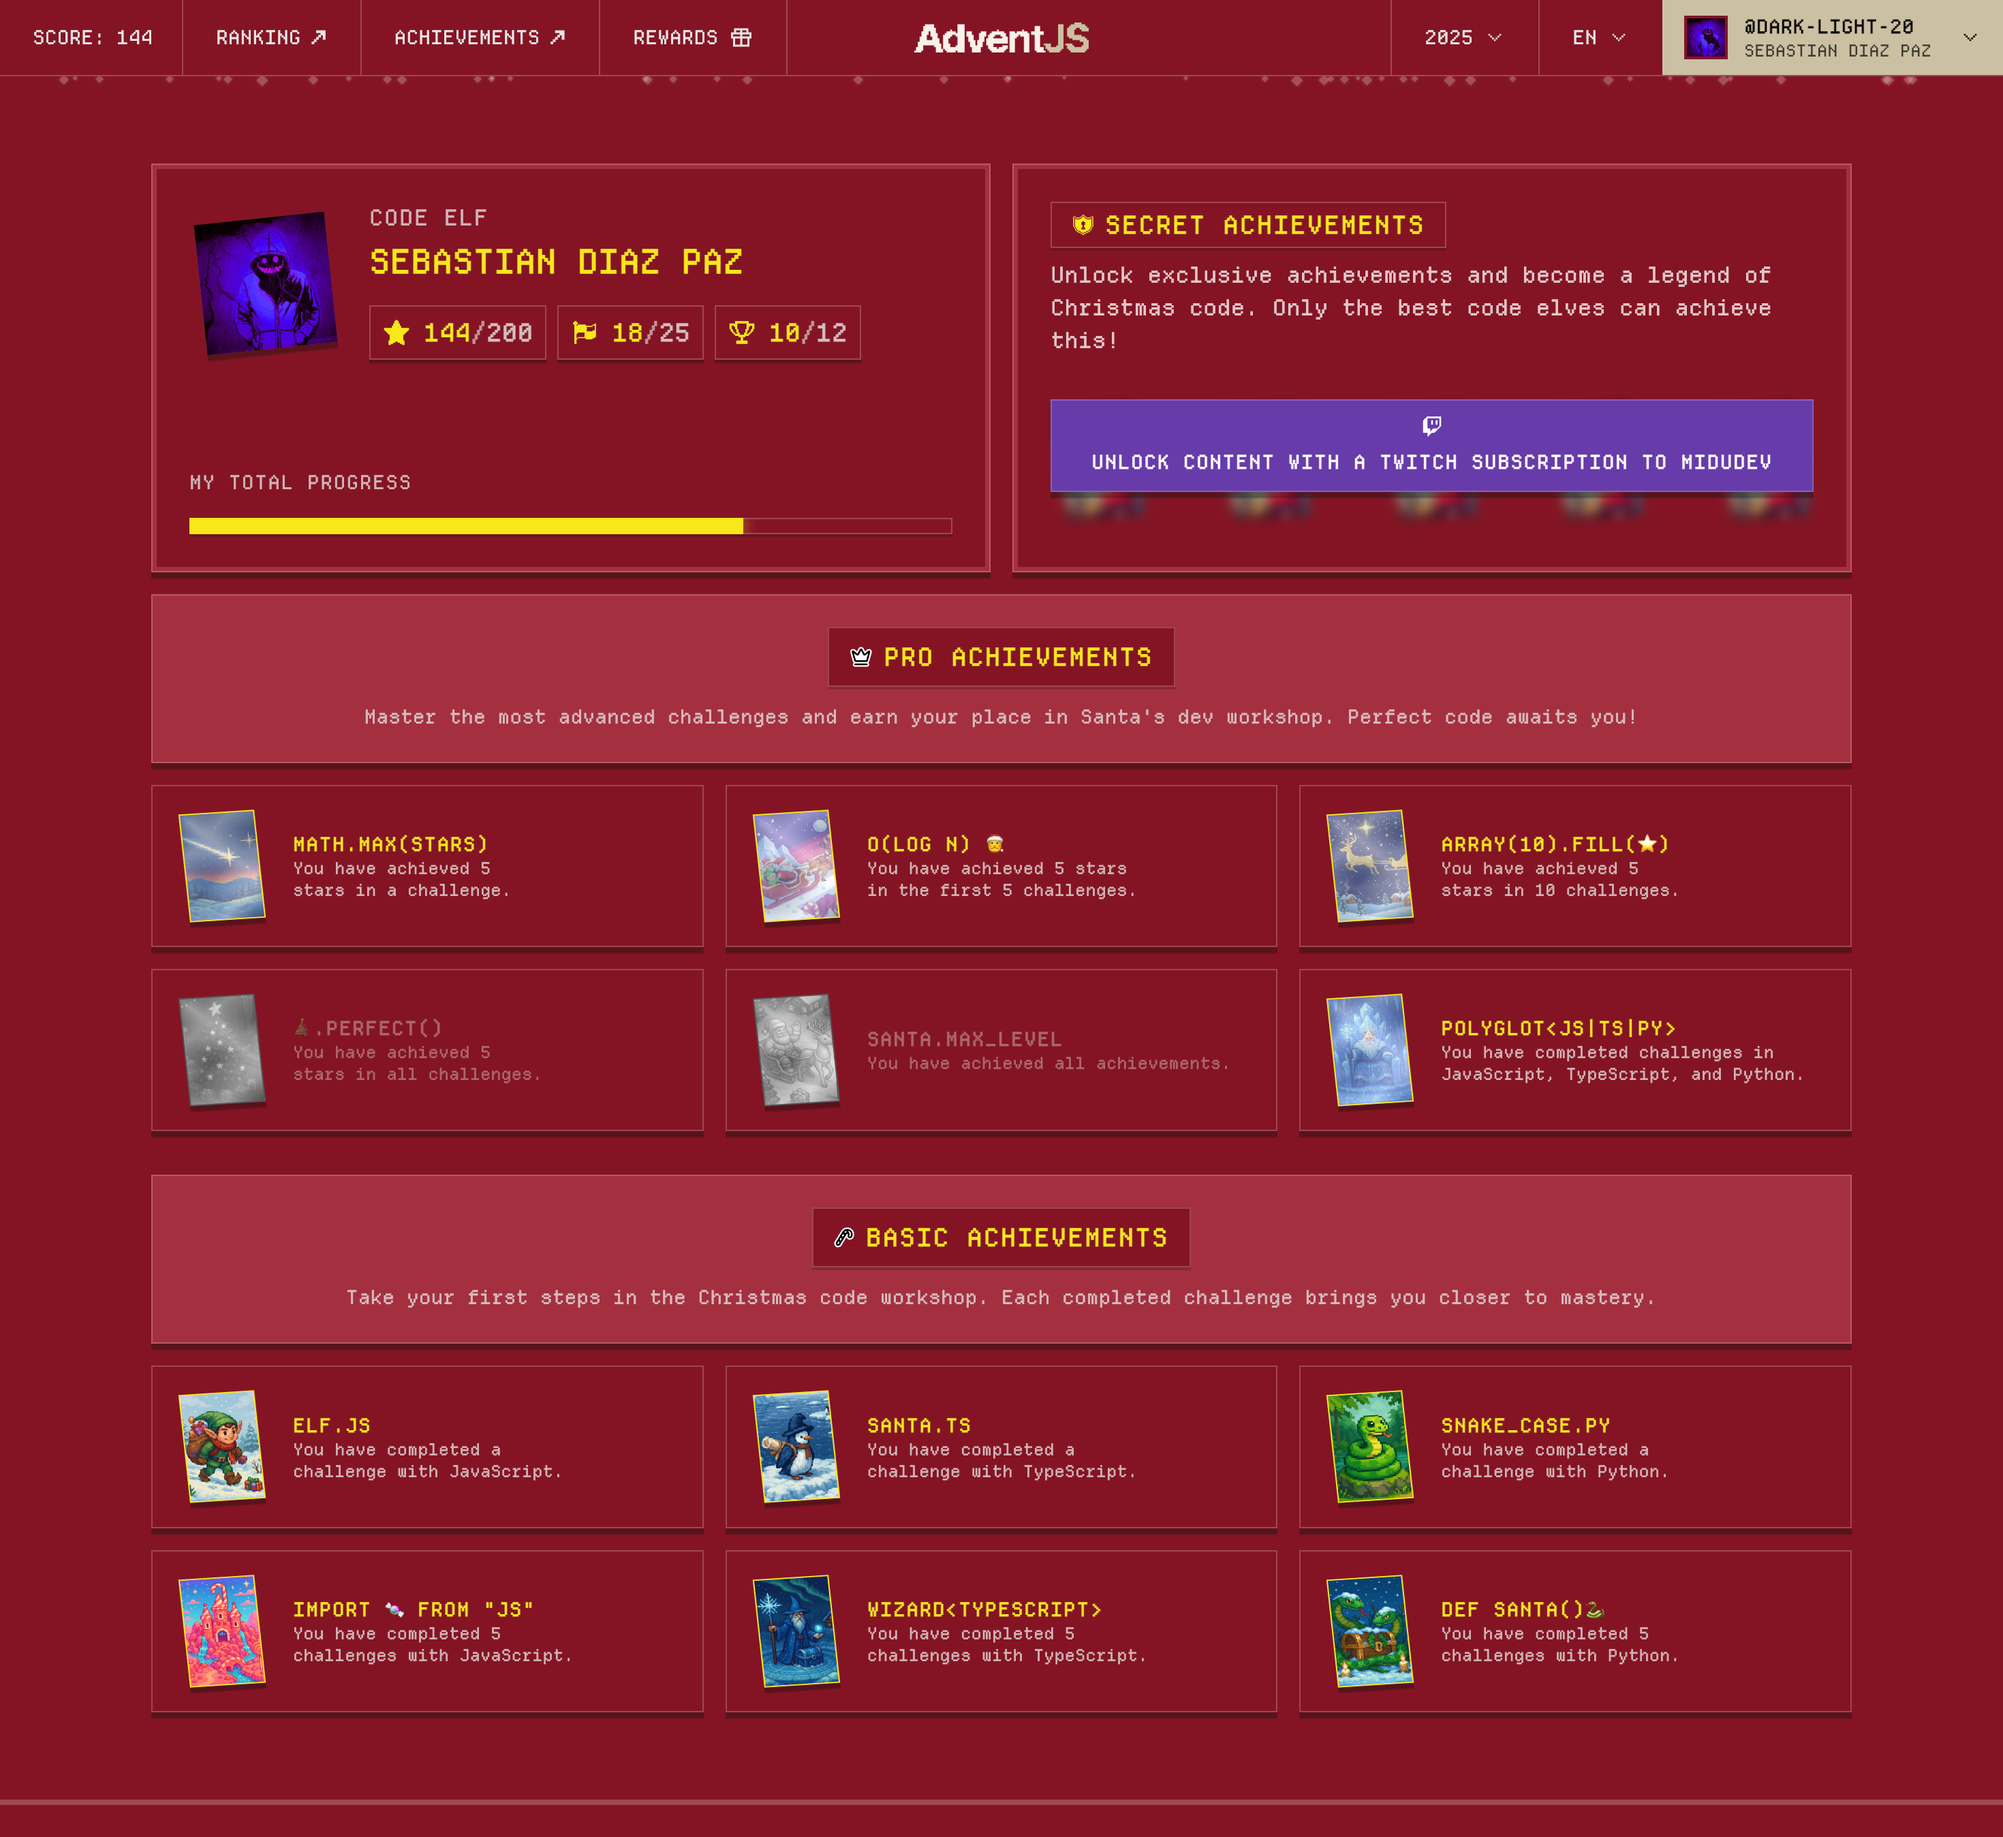
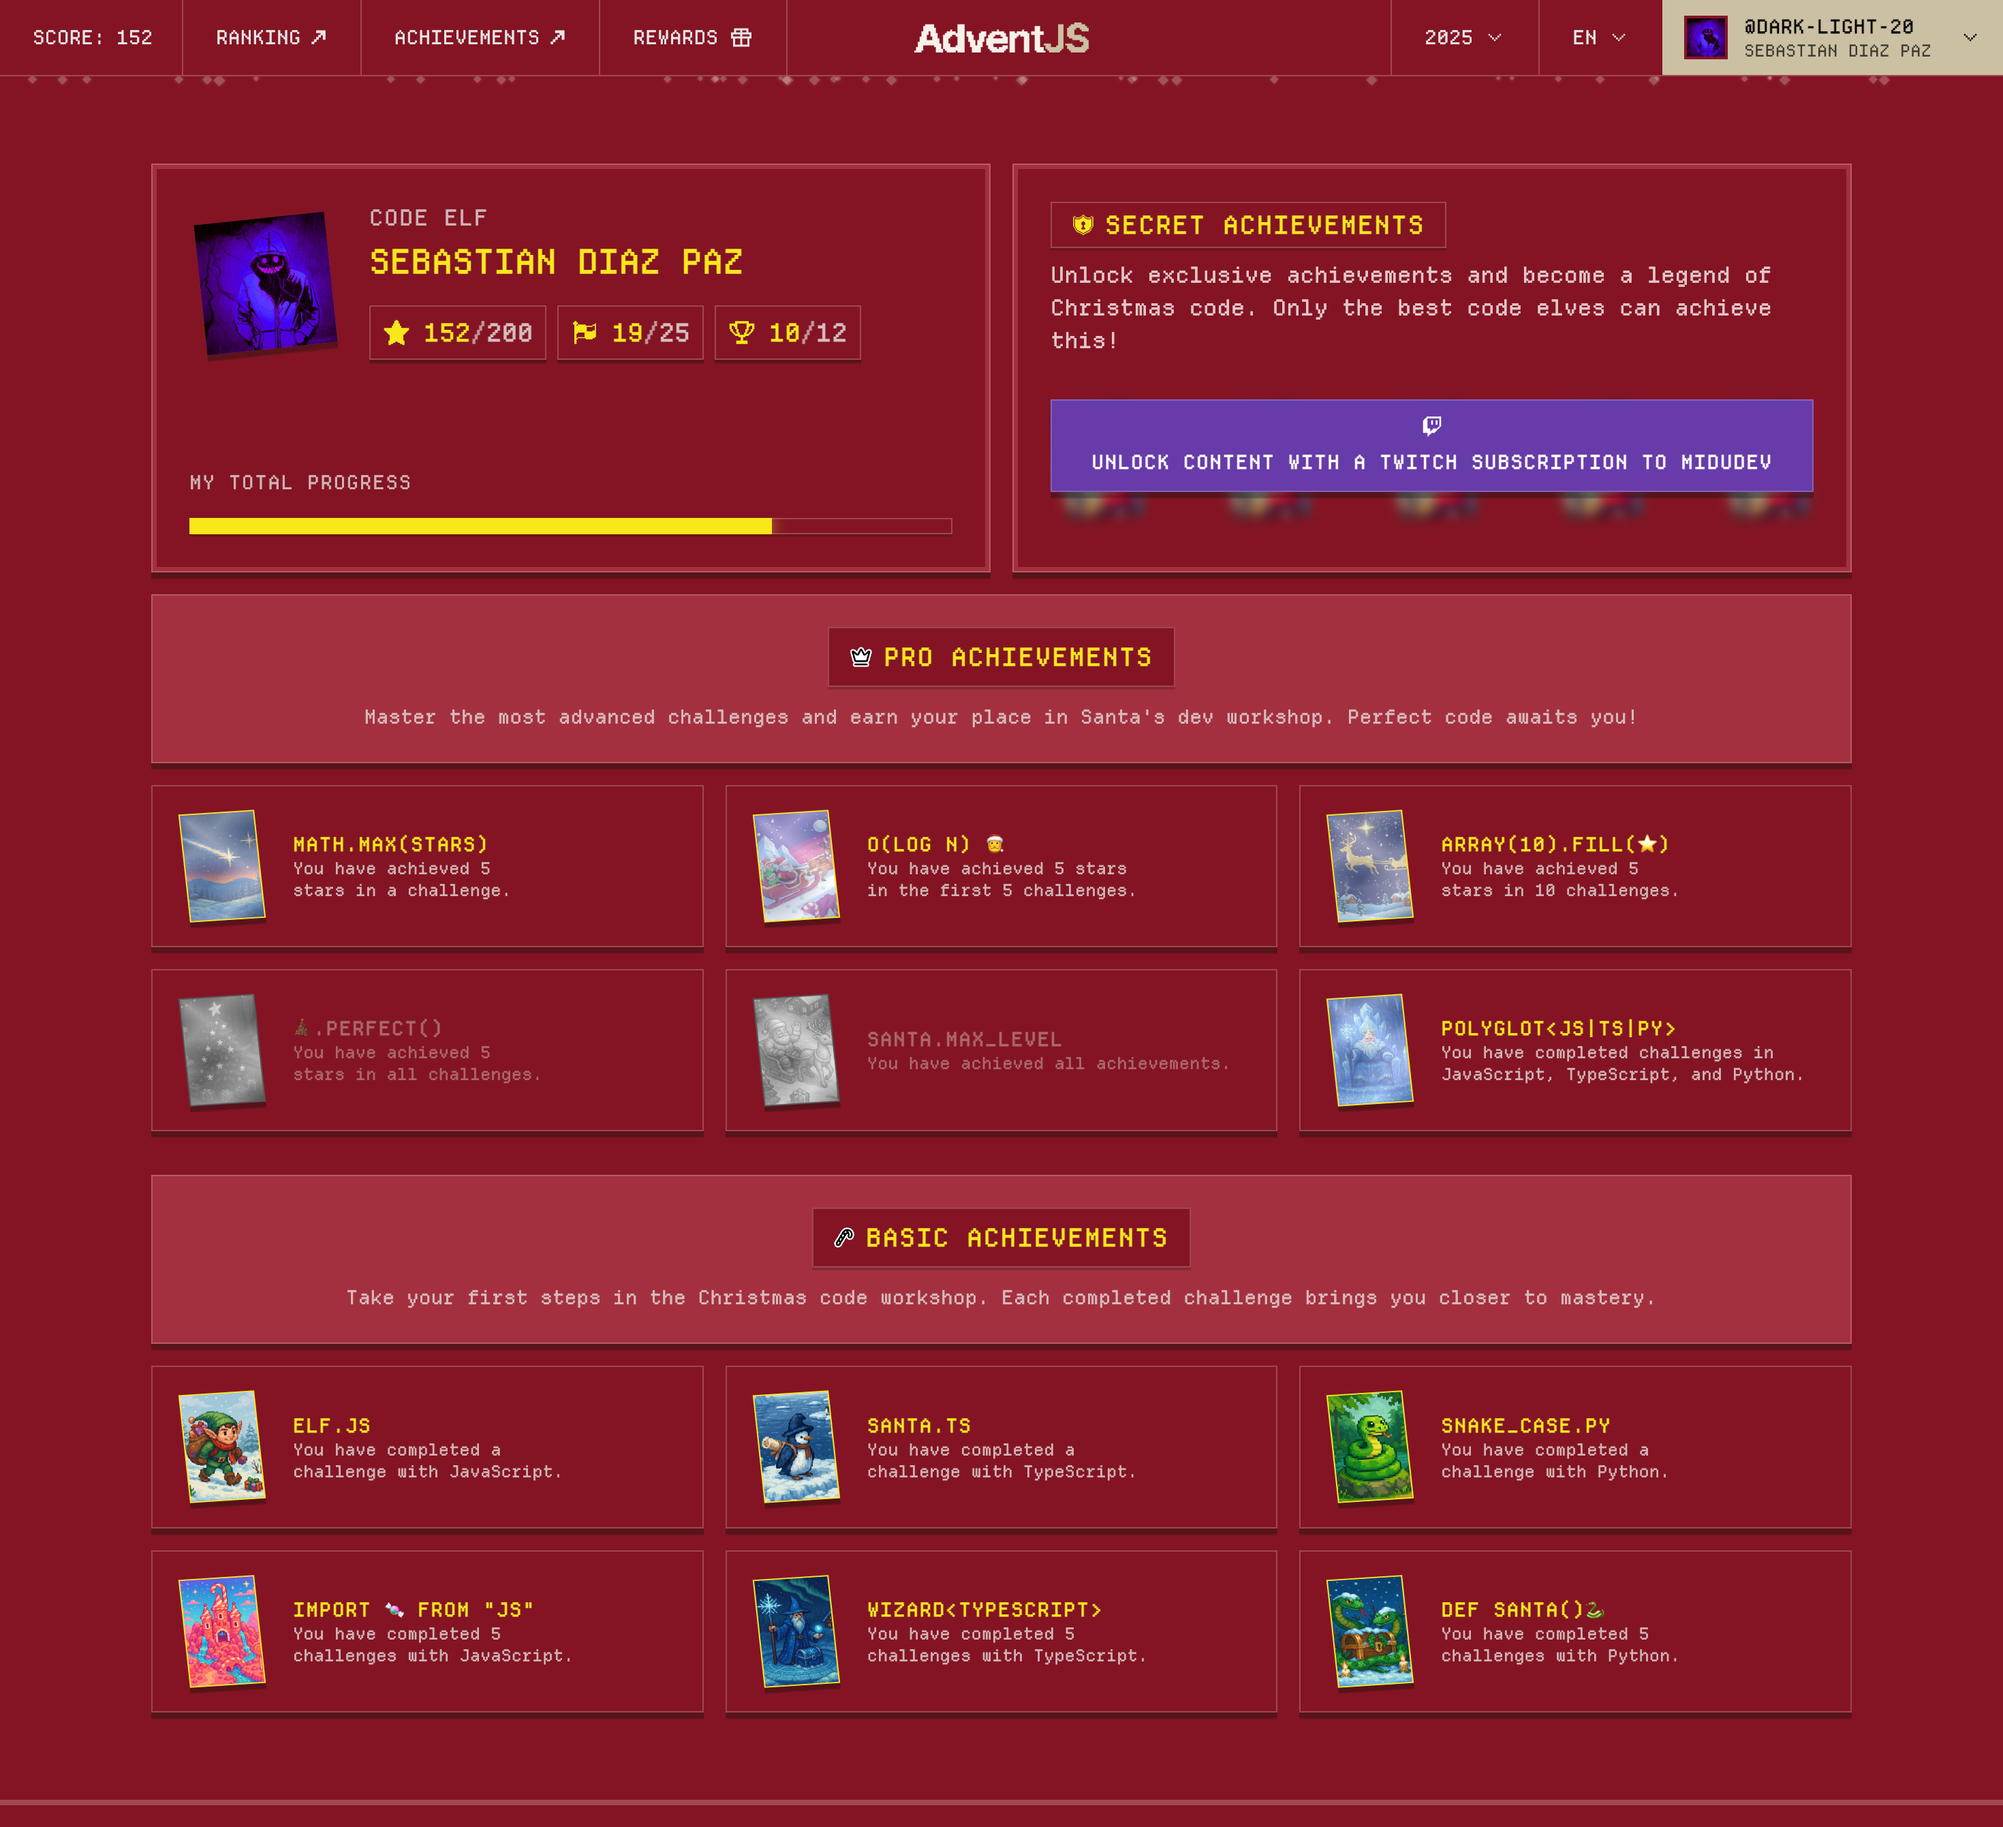
feat: :sparkles: Added challenge 19 solution

diff --git a/solutions/js/19.js b/solutions/js/19.js
@@ -1,0 +1,52 @@
+/**
+ * @param {string[][]} routes - Array of [origin, destination] pairs
+ * @returns {string[]} The reconstructed route
+ */
+function revealSantaRoute(routes) {
+  const validRoutes = [...routes[0]];
+  let pendingRoutes = routes.slice(1);
+  let finished = false;
+  while (!finished) {
+    const nextRouteIndex = pendingRoutes.findIndex(
+      (route) => route[0] === validRoutes.at(-1)
+    );
+    if (nextRouteIndex > -1) {
+      validRoutes.push(pendingRoutes[nextRouteIndex][1]);
+      pendingRoutes.splice(nextRouteIndex, 1);
+    } else {
+      finished = true;
+    }
+  }
+  return validRoutes;
+}
+
+const reveal1 = revealSantaRoute([
+  ["MEX", "CAN"],
+  ["UK", "GER"],
+  ["CAN", "UK"],
+]);
+// → ['MEX', 'CAN', 'UK', 'GER']
+console.log(reveal1);
+
+const reveal2 = revealSantaRoute([
+  ["USA", "BRA"],
+  ["JPN", "PHL"],
+  ["BRA", "UAE"],
+  ["UAE", "JPN"],
+  ["CMX", "HKN"],
+]);
+// → ['USA', 'BRA', 'UAE', 'JPN', 'PHL']
+console.log(reveal2);
+
+const reveal3 = revealSantaRoute([
+  ["STA", "HYD"],
+  ["ESP", "CHN"],
+]);
+// → ['STA', 'HYD']
+console.log(reveal3);
+
+/* 
+  Score: ★★★★★★★★ (3 bonus stars for solving it today!)
+  Points: 340
+  ops: 3654
+*/

diff --git a/solutions/ts/19.ts b/solutions/ts/19.ts
@@ -1,0 +1,48 @@
+function revealSantaRoute(routes: string[][]): string[] {
+  const validRoutes = [...routes[0]];
+  let pendingRoutes = routes.slice(1);
+  let finished = false;
+  while (!finished) {
+    const nextRouteIndex = pendingRoutes.findIndex(
+      (route) => route[0] === validRoutes.at(-1)
+    );
+    if (nextRouteIndex > -1) {
+      validRoutes.push(pendingRoutes[nextRouteIndex][1]);
+      pendingRoutes.splice(nextRouteIndex, 1);
+    } else {
+      finished = true;
+    }
+  }
+  return validRoutes;
+}
+
+const reveal1 = revealSantaRoute([
+  ["MEX", "CAN"],
+  ["UK", "GER"],
+  ["CAN", "UK"],
+]);
+// → ['MEX', 'CAN', 'UK', 'GER']
+console.log(reveal1);
+
+const reveal2 = revealSantaRoute([
+  ["USA", "BRA"],
+  ["JPN", "PHL"],
+  ["BRA", "UAE"],
+  ["UAE", "JPN"],
+  ["CMX", "HKN"],
+]);
+// → ['USA', 'BRA', 'UAE', 'JPN', 'PHL']
+console.log(reveal2);
+
+const reveal3 = revealSantaRoute([
+  ["STA", "HYD"],
+  ["ESP", "CHN"],
+]);
+// → ['STA', 'HYD']
+console.log(reveal3);
+
+/* 
+  Score: ★★★★★★★★ (3 bonus stars for solving it today!)
+  Points: 340
+  ops: 3887
+*/

diff --git a/solutions/python/19.py b/solutions/python/19.py
@@ -1,0 +1,45 @@
+def reveal_santa_route(routes: list[list[str]]) -> list[str]:
+    mapping = {origin: dest for origin, dest in routes}
+
+    dests = {dest for _, dest in routes}
+    start = next(origin for origin, _ in routes if origin not in dests)
+
+    result = [start]
+    while start in mapping:
+        start = mapping[start]
+        result.append(start)
+
+    return result
+
+
+reveal1 = reveal_santa_route([
+    ["MEX", "CAN"],
+    ["UK", "GER"],
+    ["CAN", "UK"],
+])
+# → ['MEX', 'CAN', 'UK', 'GER']
+print(reveal1)
+
+reveal2 = reveal_santa_route([
+    ["USA", "BRA"],
+    ["JPN", "PHL"],
+    ["BRA", "UAE"],
+    ["UAE", "JPN"],
+    ["CMX", "HKN"],
+])
+# → ['USA', 'BRA', 'UAE', 'JPN', 'PHL']
+print(reveal2)
+
+reveal3 = reveal_santa_route([
+    ["STA", "HYD"],
+    ["ESP", "CHN"],
+])
+# → ['STA', 'HYD']
+print(reveal3)
+
+
+"""
+  Score: ★★★★★★★★ (3 bonus stars for solving it today!)
+  Points: 240
+  ops: 3109
+"""

diff --git a/README.md b/README.md
@@ -26,7 +26,7 @@ This repository contains my solutions to **25** challenges proposed by [Midudev]
 | #16       | 🎁 Packing gifts for Santa       | 🟢 Easy    | [Description](challenges/16.md) | [JS Solution](solutions/js/16.js) | [TS Solution](solutions/ts/16.ts) | [Py Solution](solutions/python/16.py) |
 | #17       | 🎄 The Christmas lights panel    | 🟢 Easy    | [Description](challenges/17.md) | [JS Solution](solutions/js/17.js) | [TS Solution](solutions/ts/17.ts) | [Py Solution](solutions/python/17.py) |
 | #18       | 🎄 Lights in line with diagonals | 🟠 Medium  | [Description](challenges/18.md) | [JS Solution](solutions/js/18.js) | [TS Solution](solutions/ts/18.ts) | [Py Solution](solutions/python/18.py) |
-| #19       |                                  | ⚪ Unknow | [Description](challenges/19.md) | [JS Solution](solutions/js/19.js) | [TS Solution](solutions/ts/19.ts) | [Py Solution](solutions/python/19.py) |
+| #19       | 🎄 Santa's Secret Journey        | 🟢 Easy    | [Description](challenges/19.md) | [JS Solution](solutions/js/19.js) | [TS Solution](solutions/ts/19.ts) | [Py Solution](solutions/python/19.py) |
 | #20       |                                  | ⚪ Unknow | [Description](challenges/20.md) | [JS Solution](solutions/js/20.js) | [TS Solution](solutions/ts/20.ts) | [Py Solution](solutions/python/20.py) |
 | #21       |                                  | ⚪ Unknow | [Description](challenges/21.md) | [JS Solution](solutions/js/21.js) | [TS Solution](solutions/ts/21.ts) | [Py Solution](solutions/python/21.py) |
 | #22       |                                  | ⚪ Unknow | [Description](challenges/22.md) | [JS Solution](solutions/js/22.js) | [TS Solution](solutions/ts/22.ts) | [Py Solution](solutions/python/22.py) |

diff --git a/challenges/19.md b/challenges/19.md
@@ -1,0 +1,40 @@
+# Challenge #19: 🎄 Santa's Secret Journey
+
+<small>Easy</small>
+
+The sleigh’s GPS has gone crazy! 😱 Santa Claus has the **segments of his trip**, but they’re all out of order.
+
+Your mission is to **reconstruct the complete route** from the origin to the final destination.
+
+Keep in mind: **The first element of the array is always the first segment of the trip**. From there, you must keep connecting destinations to the next origins.
+
+🧩 Examples
+
+```javascript
+revealSantaRoute([
+  ["MEX", "CAN"],
+  ["UK", "GER"],
+  ["CAN", "UK"],
+]);
+// → ['MEX', 'CAN', 'UK', 'GER']
+
+revealSantaRoute([
+  ["USA", "BRA"],
+  ["JPN", "PHL"],
+  ["BRA", "UAE"],
+  ["UAE", "JPN"],
+  ["CMX", "HKN"],
+]);
+// → ['USA', 'BRA', 'UAE', 'JPN', 'PHL']
+
+revealSantaRoute([
+  ["STA", "HYD"],
+  ["ESP", "CHN"],
+]);
+// → ['STA', 'HYD']
+```
+
+**🔎 Keep in mind:**
+
+- There are no duplicate routes or cycles in Santa’s path.
+- There may be segments that don’t belong to the route; these must be ignored.
